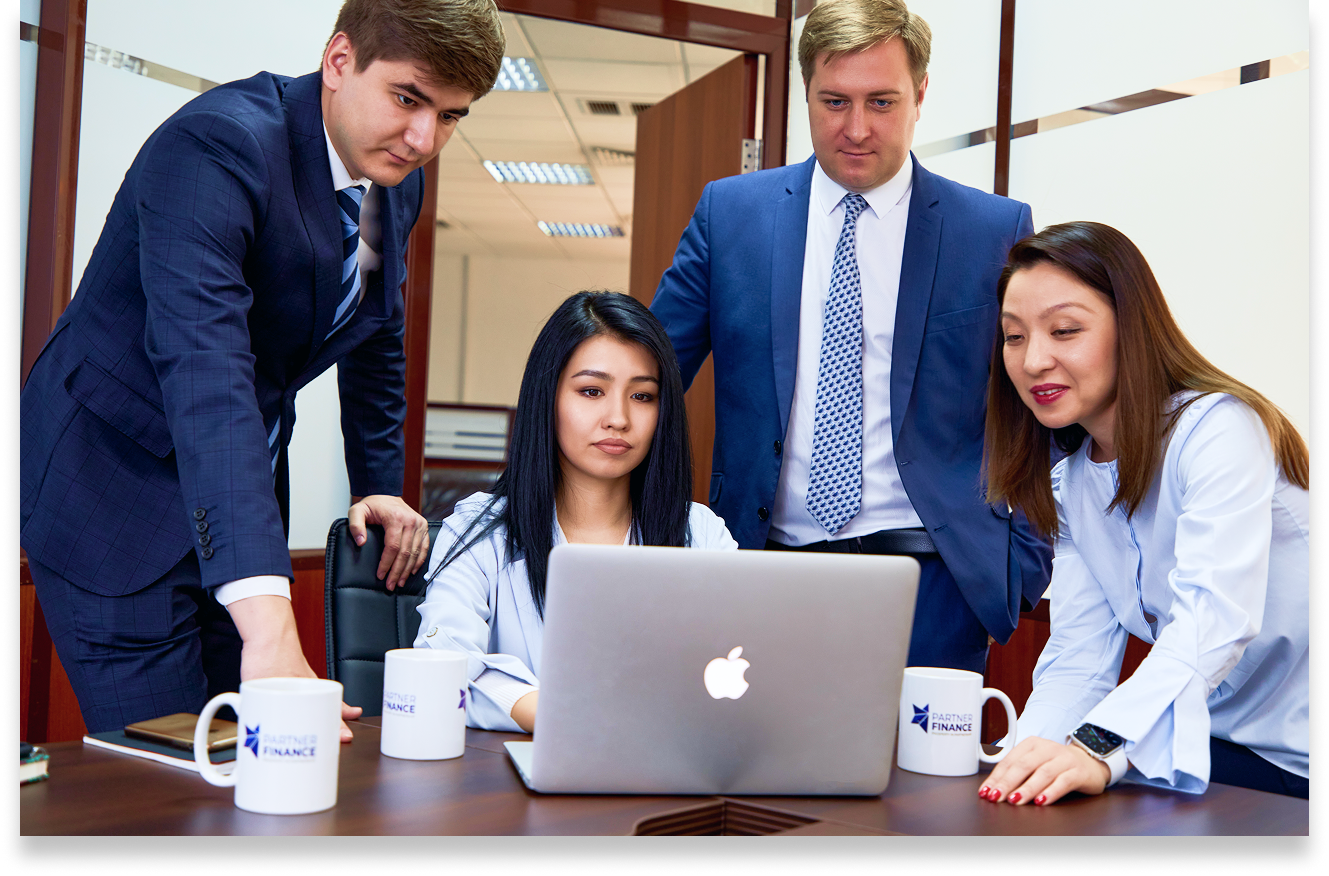
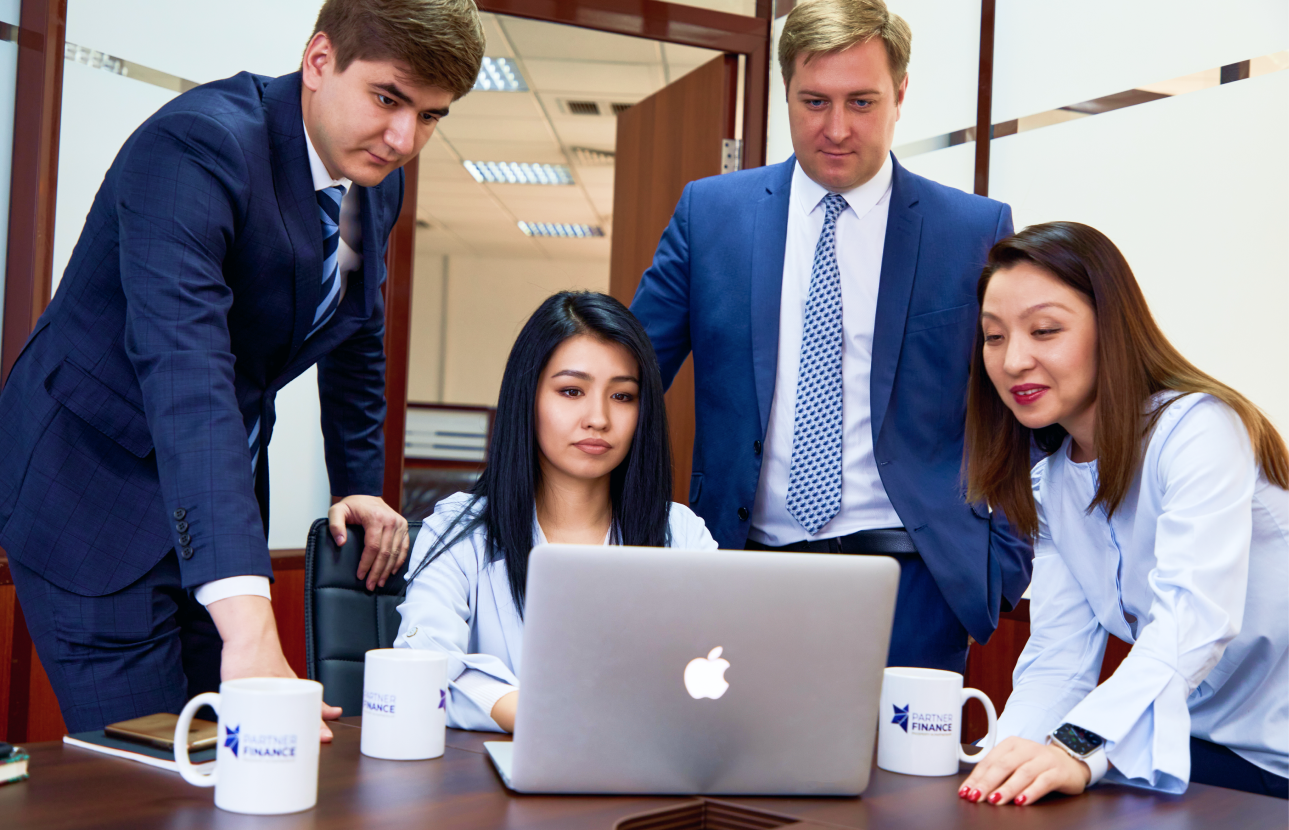
change index5.html and style5.css

diff --git a/index5.html b/index5.html
@@ -9,7 +9,7 @@
 <body>
     <h2 class="content__text">Идеи для инвестиции</h2>
     <div class="content">
-        <div class="content__info content__info_active">
+        <div class="content__info">
             <time class="content__info-time">30.09.2020</time>
             <div class="content__info-card">
                 <img src="images/logo fin 1.png" alt="logo-adobe" class="content__info-img">
@@ -78,7 +78,26 @@
         </div>
     </div>
     <button class="button">
-        <a href="#" class="=button-link">Все идеи</a>
+        <a href="#" class="button-link">Все идеи</a>
     </button> 
+    <div class="contents">
+        <div class="contents__block">
+            <img src="images/Rectangle 1.png" alt="team-building" class="contents__block-img">
+        </div>
+
+        <div class="contents__txt">
+            <h2 class="contents__txt-title">Выгоды для Вас</h2>
+            <dl class="contents__txt-list">
+                <dt class="contents__txt-term">Безопасность</dt>
+                    <dd class="contents__txt-item">Ваш брокерский счет открывается напрямую в официальном банке США, тем самым Вы лично контролируете свои финансовые потоки и не зависите от третьих лиц.</dd>
+                <dt class="contents__txt-term">Страхование</dt>
+                    <dd class="contents__txt-item">Вы получаете дополнительное страхование брокерского счета, а также возможность хранить средства в любой из 18 валют.</dd>
+                <dt class="contents__txt-term">Выбор инструментов</dt>
+                    <dd class="contents__txt-item">Вы получаете доступ ко всем известным инструментам фондового рынка, а также к авторским предложениям компании, разработанным с учетом финансовых и стратегических предпочтений.</dd>
+                <dt class="contents__txt-term">Удобство</dt>
+                    <dd class="contents__txt-item">Максимальная автоматизация бизнес-процессов позволяет Вам работать из любой точки мира. Даже для заключения договора Вам необязательно посещать офис компании.</dd>
+            </dl>
+        </div>
+    </div>
 </body>
 </html>

diff --git a/style5.css b/style5.css
@@ -16,7 +16,7 @@
 
 .content {
     display: flex;
-    justify-content: space-evenly;
+    justify-content: space-between;
     margin-left: 22px;
 }
 
@@ -32,16 +32,17 @@
 .content__info {
     max-width: 313px;
     width: 100%;
-    margin-top: 96px;
-    margin-left: 22px;
+    margin-top: 20px;
+&:first-child {
+    border-radius: 5px;
+    box-shadow: 0px 4px 4px rgba(0, 0, 0, 0.25);
+    }
 }
 
-.content__info.content__info_active:hover {
-    max-width: 313px;
-    width: 100%;
-    margin-top: 96px;
-    margin-left: 22px;
+.content__info:hover {
+    filter: drop-shadow(0px 10px 10px rgba(0, 0, 0, 0.25));
 }
+ 
 .content__info-time {
     color: #BE1736;
     font: 600 12px/100% "Montserrat", sans-serif;
@@ -91,6 +92,7 @@
 }
 
 .content__info-button {
+    font: 400 14px/100% "Montserrat", sans-serif;
     width: 262px;
     height: 50px;
     margin: 30px 25px 28px;
@@ -99,6 +101,7 @@
 }
 
 .content__info-button_active {
+    font: 400 14px/100% "Montserrat", sans-serif;
     width: 262px;
     height: 50px;
     margin: 30px 25px 28px;
@@ -111,9 +114,55 @@
     color: #000;
 }
 
-
-
 .button {
     width: 260px;
+    height: 50px;
     border: 2px solid #575756;
+    margin-top: 50px;
+    margin-right: 544px;
+    margin-left: 544px;
+}
+
+.button-link {
+    font: 400 14px/100% "Montserrat", sans-serif;
+    text-decoration: none;
+    color: #000;
+}
+
+.contents {
+    display: flex;
+    justify-content: space-between;
+    margin: 100px 19px 22px 15px;
+    max-width: 1309px;
+    width: 100%;
+}
+
+.contents__block-img {
+    width: 644px;
+    border: 1px dashed #999;
+    margin-right: 91px;
+    margin-top: 30px;
+}
+
+.contents__txt-title {
+    width: 496px;
+    font: 600 24px/29px "Montserrat", sans-serif;
+    margin-bottom: 30px;
+}
+
+.contents__txt-term {
+    max-width: 496px; 
+    width: 100%;
+    font: 600 18px/22px "Montserrat", sans-serif;
+    margin-bottom: 10px;
+}
+
+.contents__txt-item {
+    max-width: 573px;
+    width: 100%;
+    margin-bottom: 30px;
+    font: 400 14px/17px "Montserrat", sans-serif;
+&:last-child {
+    margin-bottom: 0;
+}
 }
